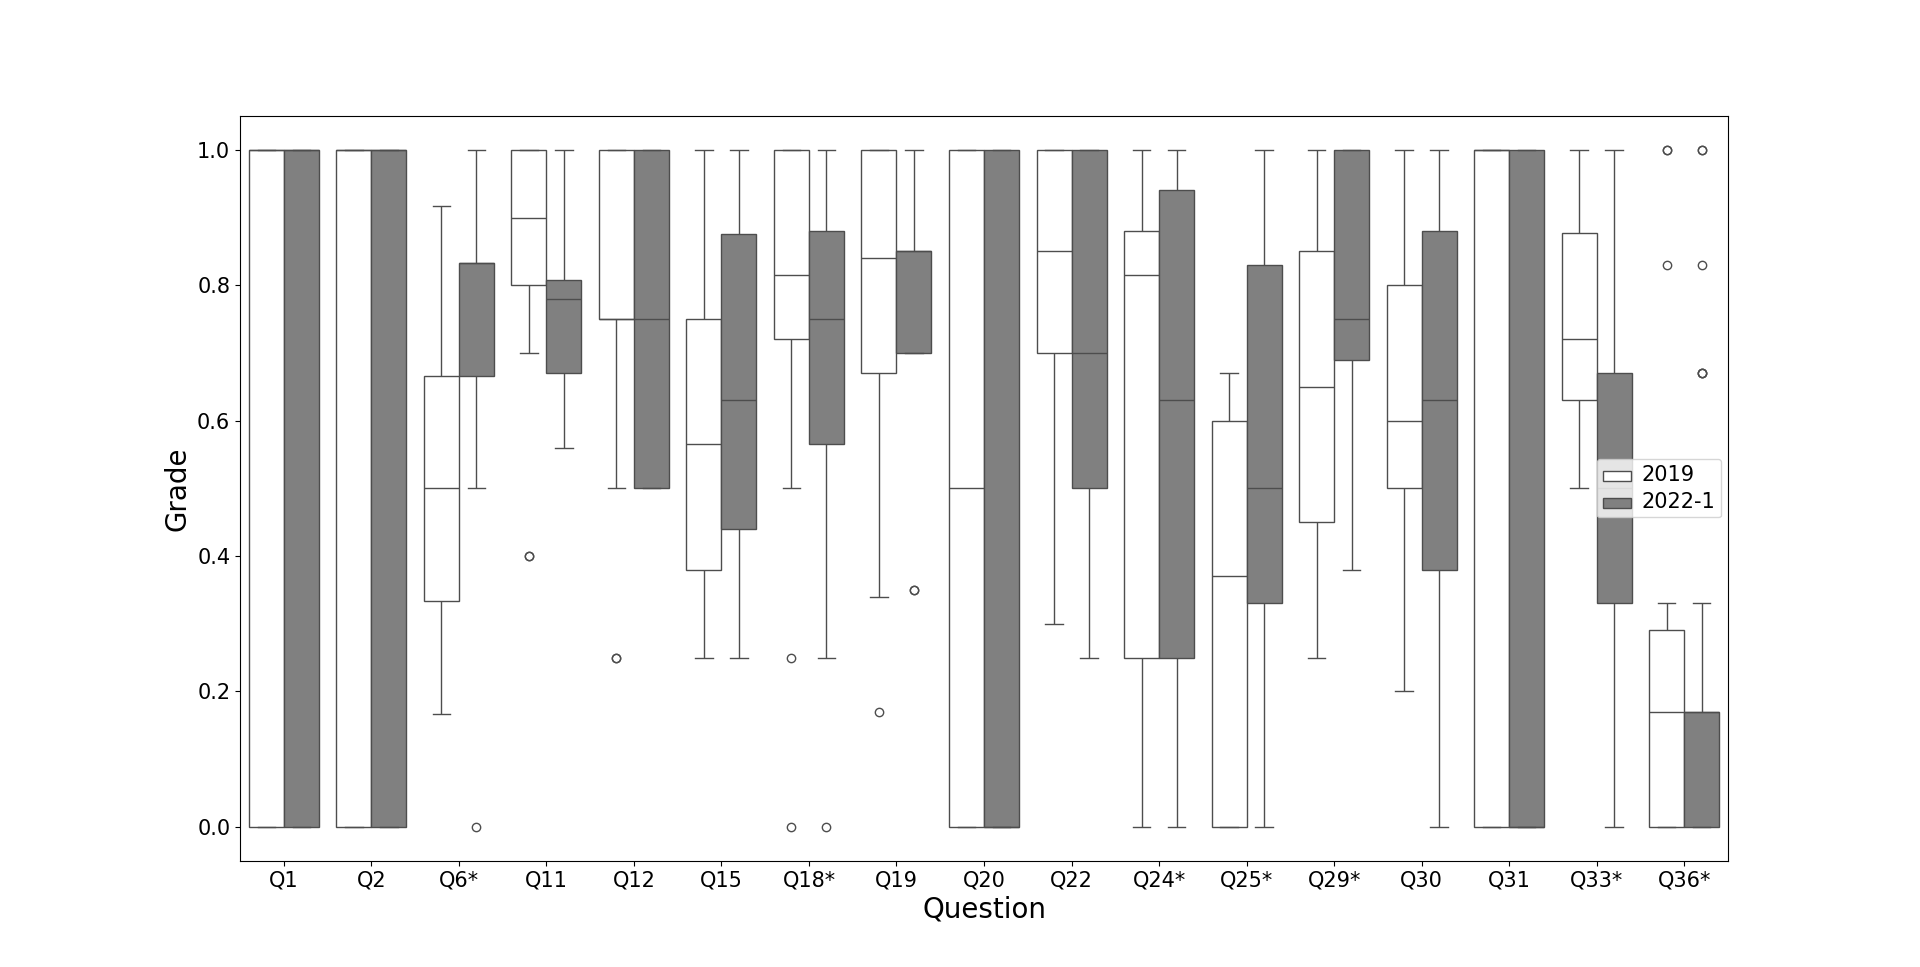
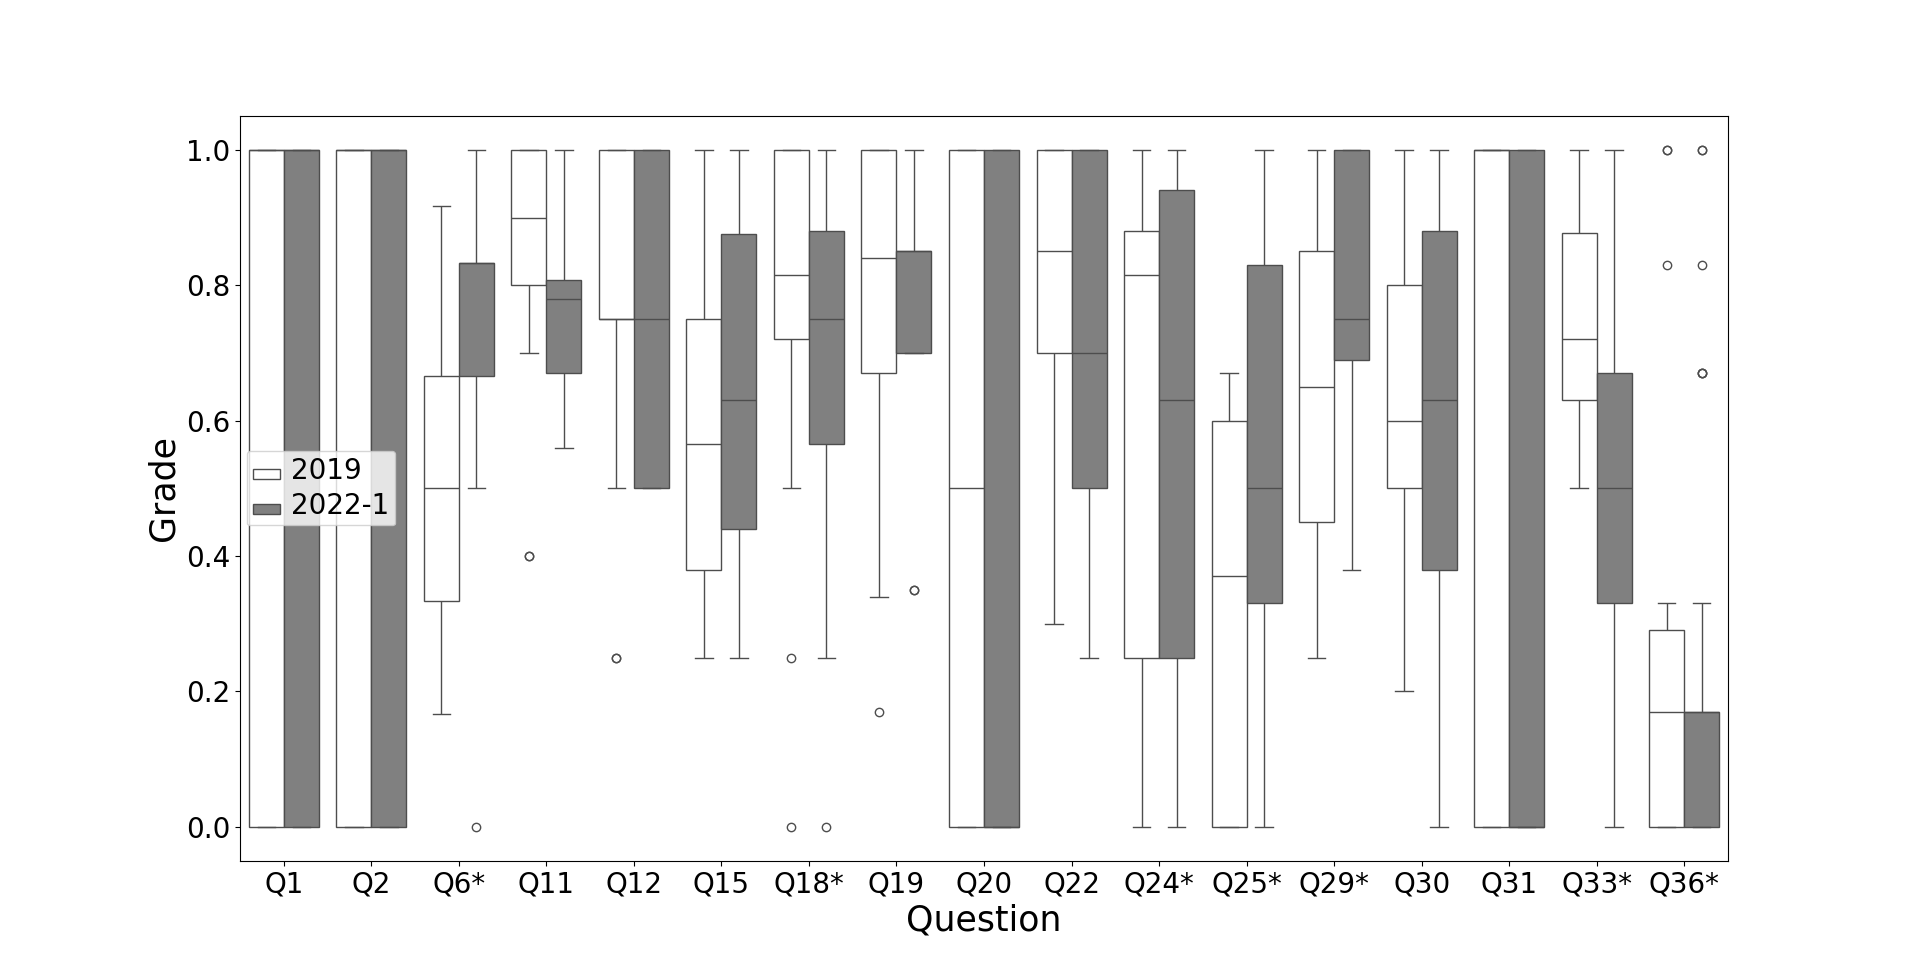
Images

diff --git a/interface/frontEnd.py b/interface/frontEnd.py
@@ -74,16 +74,16 @@ def showBoxplotComparationPrePosPandemic():
 		palette=custom_palette
 	)
 
-	ax.set_xlabel('Question', fontsize=20)
-	ax.set_ylabel('Grade', fontsize=20)
+	ax.set_xlabel('Question', fontsize=25)
+	ax.set_ylabel('Grade', fontsize=25)
 
 	# Increase size of tick labels
-	ax.tick_params(axis='x', labelsize=15)
-	ax.tick_params(axis='y', labelsize=15)
+	ax.tick_params(axis='x', labelsize=20)
+	ax.tick_params(axis='y', labelsize=20)
 
 	legend = ax.legend()
 	for text in legend.get_texts():
-		text.set_fontsize(15)
+		text.set_fontsize(20)
 
 	plt.show()
 
@@ -101,16 +101,16 @@ def showBoxplotComparationPosPandemic():
 		palette=custom_palette
 	)
 
-	ax.set_xlabel('Question', fontsize=30)
-	ax.set_ylabel('Grade', fontsize=30)
+	ax.set_xlabel('Question', fontsize=25)
+	ax.set_ylabel('Grade', fontsize=25)
 
 	# Increase size of tick labels
-	ax.tick_params(axis='x', labelsize=25)
-	ax.tick_params(axis='y', labelsize=25)
+	ax.tick_params(axis='x', labelsize=20)
+	ax.tick_params(axis='y', labelsize=20)
 
 	legend = ax.legend()
 	for text in legend.get_texts():
-		text.set_fontsize(25)
+		text.set_fontsize(15)
 
 	plt.show()
 
